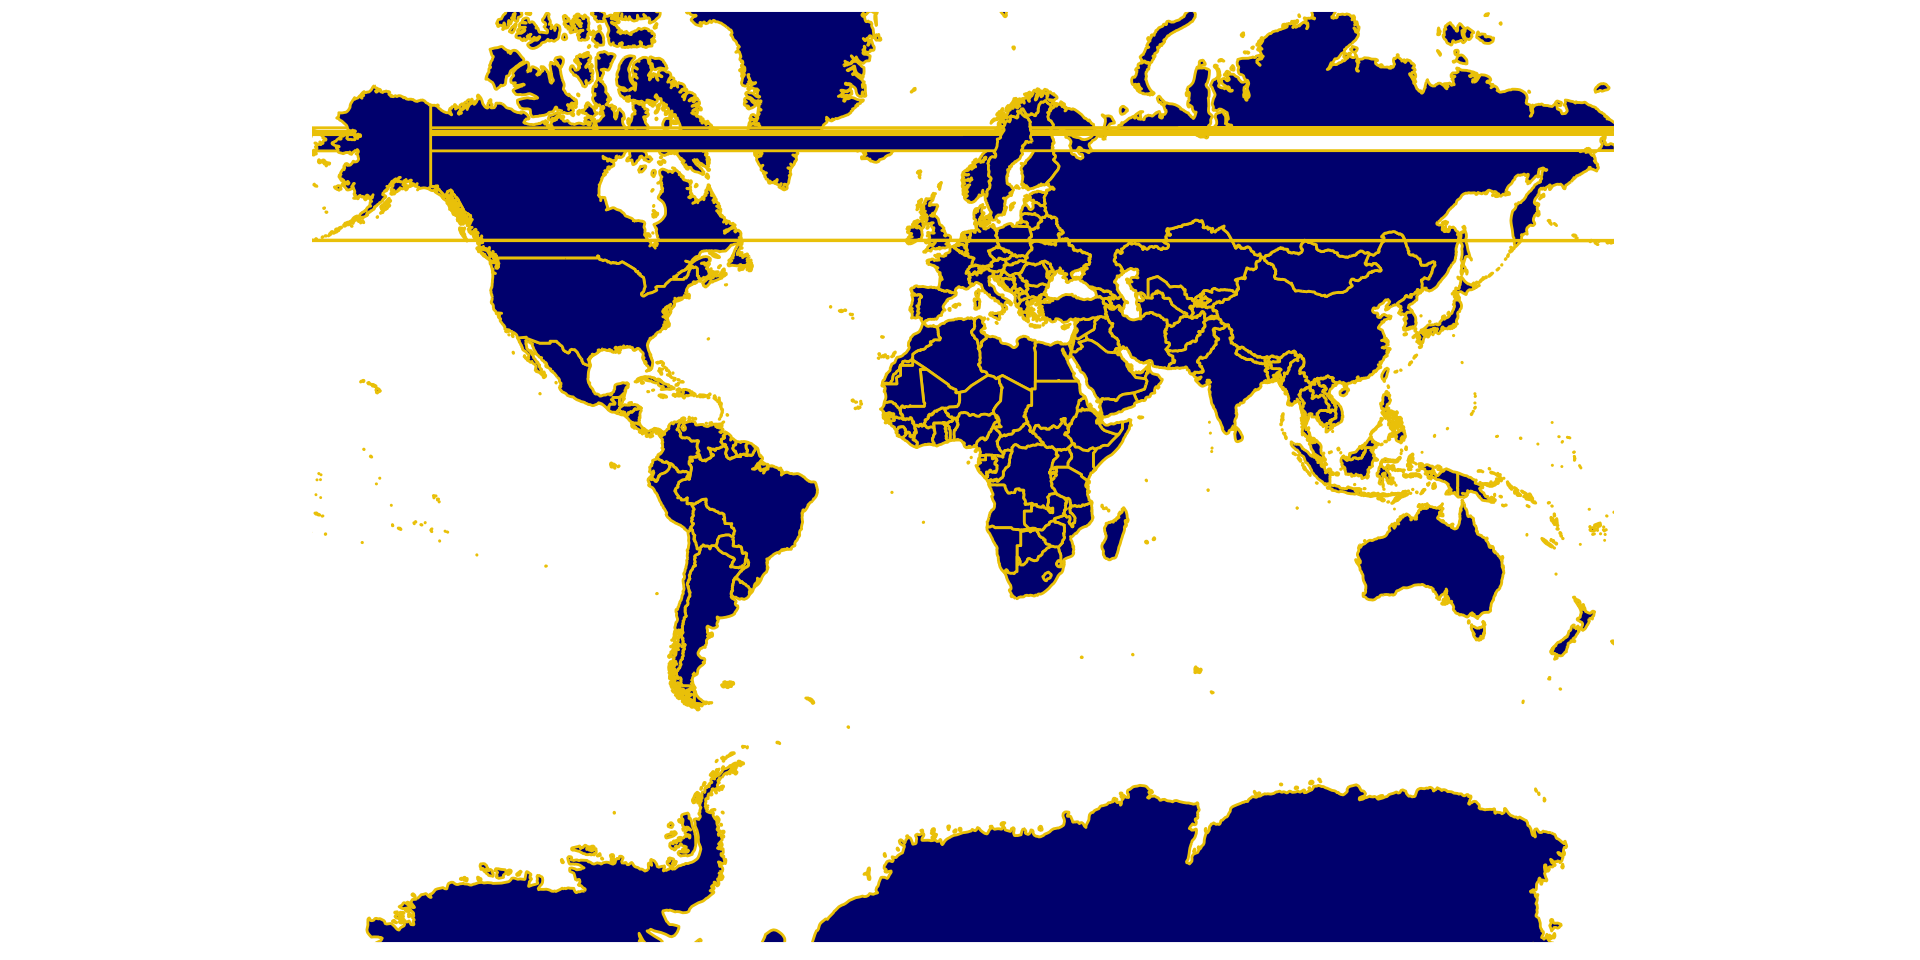
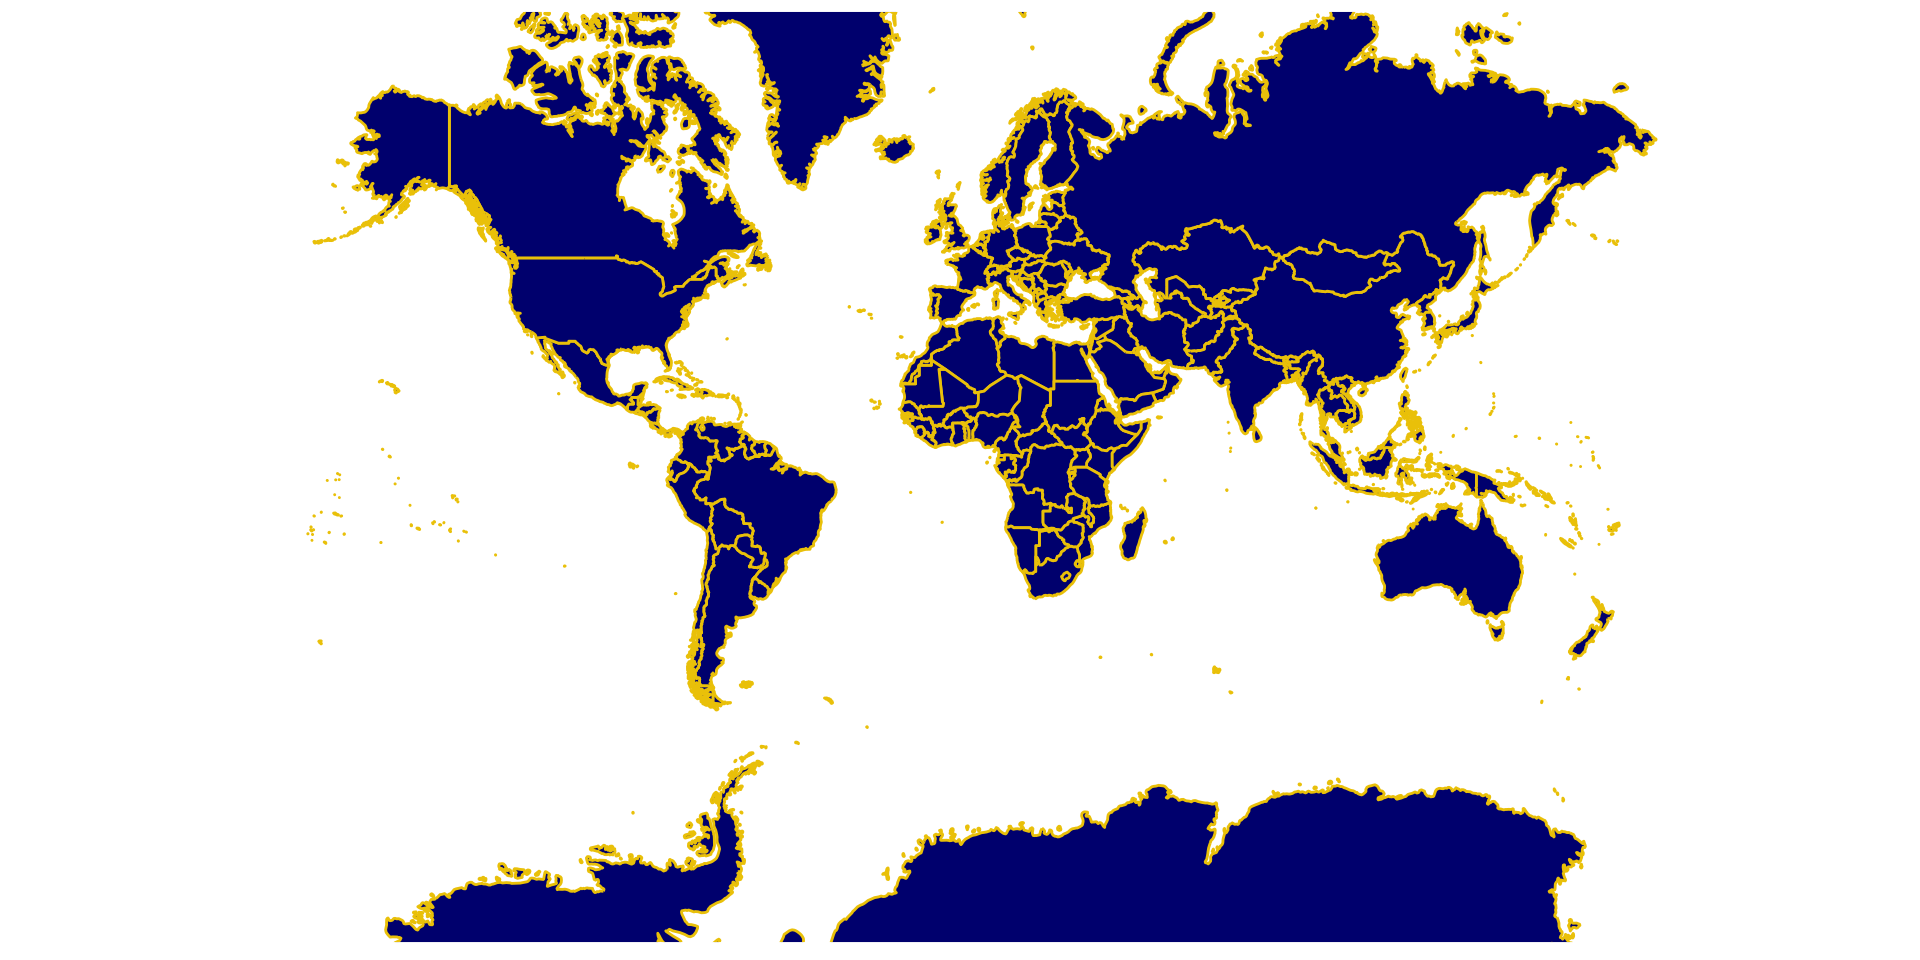
more updates to map slides

diff --git a/slides/05/slides05.html b/slides/05/slides05.html
@@ -674,7 +674,7 @@ $ subregion &lt;chr&gt; NA, NA, NA, NA, NA, NA, NA, NA, NA, NA, NA, NA, NA, NA, 
 </div>
 <div class="cell">
 <div class="cell-output-display">
-<div class="countdown" id="timer_cac299d9" data-update-every="1" tabindex="0" style="right:0;bottom:0;">
+<div class="countdown" id="timer_f41493ad" data-update-every="1" tabindex="0" style="right:0;bottom:0;">
 <div class="countdown-controls"><button class="countdown-bump-down">−</button><button class="countdown-bump-up">+</button></div>
 <code class="countdown-time"><span class="countdown-digits minutes">03</span><span class="countdown-digits colon">:</span><span class="countdown-digits seconds">00</span></code>
 </div>
@@ -692,6 +692,13 @@ $ subregion &lt;chr&gt; NA, NA, NA, NA, NA, NA, NA, NA, NA, NA, NA, NA, NA, NA, 
 </div></div>
 </section>
 <section id="section-6" class="slide level2">
+<h2></h2>
+<iframe data-external="1" src="https://www.youtube.com/embed/vVX-PrBRtTY?start=45" width="100%" height="100%" title="West Wing: Gall-Peters Projection" frameborder="0" allow="accelerometer; autoplay; clipboard-write; encrypted-media; gyroscope; picture-in-picture" allowfullscreen=""></iframe>
+
+<aside><div>
+<p>From <em>The West Wing</em> Season 2 Episode 16</p>
+</div></aside></section>
+<section id="section-7" class="slide level2">
 <h2></h2>
 <img data-src="../img/africa-greenland-distortions.png" class="r-stretch">
 </section>
@@ -740,7 +747,7 @@ $ subregion &lt;chr&gt; NA, NA, NA, NA, NA, NA, NA, NA, NA, NA, NA, NA, NA, NA, 
 <span id="cb8-2"><a></a></span>
 <span id="cb8-3"><a></a><span class="fu">ggplot</span>(world, <span class="fu">aes</span>(<span class="at">x=</span>long, <span class="at">y=</span>lat, <span class="at">group=</span>group)) <span class="sc">+</span> </span>
 <span id="cb8-4"><a></a>  <span class="fu">geom_polygon</span>(<span class="at">color=</span><span class="st">"gold2"</span>, <span class="at">fill=</span><span class="st">"navyblue"</span>) <span class="sc">+</span> </span>
-<span id="cb8-5"><a></a>  <span class="fu">coord_map</span>(<span class="at">projection =</span> <span class="st">"mercator"</span>) <span class="sc">+</span> </span>
+<span id="cb8-5"><a></a>  <span class="fu">coord_map</span>(<span class="at">projection =</span> <span class="st">"mercator"</span>, <span class="at">xlim =</span> <span class="fu">c</span>(<span class="sc">-</span><span class="dv">180</span>, <span class="dv">180</span>)) <span class="sc">+</span> </span>
 <span id="cb8-6"><a></a>  <span class="fu">theme_map</span>()</span></code><button title="Copy to Clipboard" class="code-copy-button"><i class="bi"></i></button></pre></div>
 </div>
 <div>
@@ -770,7 +777,12 @@ $ subregion &lt;chr&gt; NA, NA, NA, NA, NA, NA, NA, NA, NA, NA, NA, NA, NA, NA, 
 <p>Fill in regions with variable values</p>
 <div class="columns">
 <div class="column" style="width:40%;">
-<p>Need two data sources: 1. map data with lat, long, region 2. data with measurements for each region 3. you don’t need to join them!</p>
+<p>Need two data sources:</p>
+<ol type="1">
+<li>map data with lat, long, region</li>
+<li>data with measurements for each region</li>
+</ol>
+<p>you don’t need to join them!</p>
 </div><div class="column" style="width:60%;">
 <p><img data-src="../img/wilke-chloropleth.png"></p>
 </div></div>
@@ -781,10 +793,10 @@ $ subregion &lt;chr&gt; NA, NA, NA, NA, NA, NA, NA, NA, NA, NA, NA, NA, NA, NA, 
 <section id="proportional-symbol" class="slide level2">
 <h2>Proportional Symbol</h2>
 <p>Overlay symbols on an existing map, where the size of the shape is proportional to the variable</p>
-<p><img data-src="../img/airport-ggmap.png"></p>
+<img data-src="../img/airport-ggmap.png" class="r-stretch">
 
 <aside><div>
-<p>Made with <code>ggmap</code> and <code>nycflights13</code></p>
+<p>Made with {ggmap} and {nycflights23}</p>
 </div></aside></section>
 <section id="cartogram" class="slide level2">
 <h2>Cartogram</h2>
@@ -800,7 +812,7 @@ $ subregion &lt;chr&gt; NA, NA, NA, NA, NA, NA, NA, NA, NA, NA, NA, NA, NA, NA, 
 <div class="task">
 <p>You should:</p>
 <ul>
-<li>Use the starter code provided</li>
+<li>Use the starter code provided in <code>05-maps.rmd</code></li>
 <li>Choose a different variable</li>
 <li>Change the color scale</li>
 <li>Update the title, axis labels, and legend</li>
